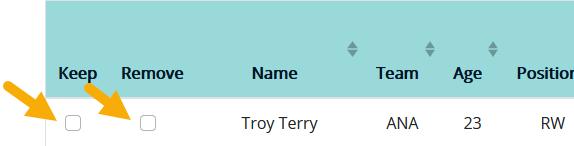
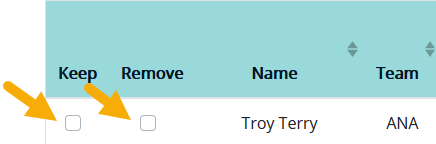
Update screenshot for mobile

diff --git a/src/views/Faq.vue b/src/views/Faq.vue
@@ -53,7 +53,7 @@
                                 <p>If this is your first time using the site, just click “Optimize Results” found in the bottom toolbar of the page and see what happens.</p>
                                 <b-row class="py-4 text-center">
                                     <b-col>
-                                    <b-img :src="require('../assets/screenshots/optimize.png')"/>
+                                    <b-img :src="require('../assets/screenshots/optimize.png')" class="screenshot"/>
                                     </b-col>
                                 </b-row>
                                 <p>Using performance metrics, cap hit, and age, our model uses linear programming to optimize each team’s protection decisions and Seattle’s selection decisions. This may sound simple but it’s pretty impressive considering there are more possible draft combinations than atoms in the universe!</p>
@@ -90,13 +90,13 @@
                                 <p>To access these settings, click the “Advanced Options” button found in the bottom toolbar and a pop-up will appear.</p>
                                 <b-row class="text-center py-4">
                                     <b-col cols=12>
-                                        <b-img :src="require('../assets/screenshots/advanced_options.png')"/>
+                                        <b-img :src="require('../assets/screenshots/advanced_options.png')" class="screenshot"/>
                                     </b-col>
                                 </b-row>
                                 <p>The first settings that appear will be drop-down menus in which you can select metrics for both on-ice performance and financial flexibility. There is also an option to consider UFAs, but please note the rules of the expansion draft.</p>
                                 <b-row class="text-center py-4">
                                     <b-col cols=12>
-                                        <b-img :src="require('../assets/screenshots/metrics.png')"/>
+                                        <b-img :src="require('../assets/screenshots/metrics.png')" class="screenshot"/>
                                     </b-col>
                                 </b-row>
                                 <p>Cap hit information was obtained from <b-link href="https://www.capfriendly.com/" :target="'_blank'">CapFriendly</b-link>. EA NHL 2021 ratings were obtained from <b-link href="https://old.reddit.com/r/EA_NHL/comments/jcchyh/oc_jfreshs_nhl_21_custom_player_ratings/" :target="'_blank'">this Reddit post</b-link>. Point shares data was obtained from <b-link href="https://www.hockey-reference.com/leagues/NHL_2021_skaters-misc.html" :target="'_blank'">Hockey Reference</b-link>.</p>
@@ -114,13 +114,13 @@
                                 <p>To access these settings, click the “Advanced Options” button found in the bottom toolbar and a pop-up will appear.</p>
                                 <b-row class="text-center py-4">
                                     <b-col cols=12>
-                                        <b-img :src="require('../assets/screenshots/advanced_options.png')"/>
+                                        <b-img :src="require('../assets/screenshots/advanced_options.png')" class="screenshot"/>
                                     </b-col>
                                 </b-row>
                                 <p>Below the metric selection drop-down menus, you will see two sliders: one from the perspective of Seattle and one from the perspective of all the existing teams. You can either adjust the slider directly or input the percentages in the boxes. If you only want to change some of the existing teams, click the “Show all other teams” button on the bottom-left to reveal individual sliders for each team.</p>
                                 <b-row class="text-center py-4">
                                     <b-col cols=12>
-                                        <b-img :src="require('../assets/screenshots/slider.png')"/>
+                                        <b-img :src="require('../assets/screenshots/slider.png')" class="screenshot"/>
                                     </b-col>
                                 </b-row>
                             </b-card-text>
@@ -137,12 +137,12 @@
                                 <p>If you are still unsatisfied with the results after changing the other settings, you can manually make protection / exposure / selection decisions akin to other expansion draft tools. Simply checkmark the “Protect” or “Expose” boxes for the existing teams and checkmark the “Keep” or “Remove” boxes for Seattle to either keep or remove the drafted player and then click “Optimize Results” to re-run the optimization.</p>
                                 <b-row class="py-2 text-center">
                                     <b-col cols=12>
-                                        <b-img :src="require('../assets/screenshots/protect_expose.png')"/>
+                                        <b-img :src="require('../assets/screenshots/protect_expose.png')" class="screenshot"/>
                                     </b-col>
                                 </b-row>
                                 <b-row class="py-2 text-center">
                                     <b-col cols=12>
-                                        <b-img :src="require('../assets/screenshots/keep_remove.png')"/>
+                                        <b-img :src="require('../assets/screenshots/keep_remove.png')" class="screenshot"/>
                                     </b-col>
                                 </b-row>
                             </b-card-text>
@@ -160,13 +160,13 @@
                                 <p>In the following screenshot, Calgary violates the expansion draft rules so the optimizer cannot find a valid solution.</p>
                                 <b-row class="py-4 text-center">
                                     <b-col cols=12>
-                                        <b-img :src="require('../assets/screenshots/cgy_infeasible.png')"/>
+                                        <b-img :src="require('../assets/screenshots/cgy_infeasible.png')" class="screenshot"/>
                                     </b-col>
                                 </b-row>
                                 <p>In the following screenshot, a player is both protected and manually kept by Seattle which so the optimizer cannot find a valid solution.</p>
                                 <b-row class="py-4 text-center">
                                     <b-col cols=12>
-                                        <b-img :src="require('../assets/screenshots/seattle_infeasible.png')"/>
+                                        <b-img :src="require('../assets/screenshots/seattle_infeasible.png')" class="screenshot"/>
                                     </b-col>
                                 </b-row>
                             </b-card-text>
@@ -189,9 +189,3 @@
         </template>
     </b-container>
 </template>
-
-<style lang="scss" scoped>
-img {
-    border: 1px #001628 solid;
-}
-</style>

diff --git a/src/components/IntroModal.vue b/src/components/IntroModal.vue
@@ -177,7 +177,7 @@
                 </b-row>
                 <b-row class="text-center">
                     <b-col cols=12>
-                        <b-img :src="require('../assets/screenshots/advanced_options.png')"/>
+                        <b-img :src="require('../assets/screenshots/advanced_options.png')" class="screenshot"/>
                     </b-col>
                 </b-row>
                 <b-row class="pt-4">
@@ -187,12 +187,12 @@
                 </b-row>
                 <b-row class="py-2 text-center">
                     <b-col cols=12>
-                        <b-img :src="require('../assets/screenshots/protect_expose.png')"/>
+                        <b-img :src="require('../assets/screenshots/protect_expose.png')" class="screenshot"/>
                     </b-col>
                 </b-row>
                 <b-row class="py-2 text-center">
                     <b-col cols=12>
-                        <b-img :src="require('../assets/screenshots/keep_remove.png')"/>
+                        <b-img :src="require('../assets/screenshots/keep_remove.png')" class="screenshot"/>
                     </b-col>
                 </b-row>
             </b-container>

diff --git a/src/styles/_main.scss b/src/styles/_main.scss
@@ -93,6 +93,10 @@ a.nav-link {
     max-width: 7.5%;
 }
 
+.screenshot {
+    border: 1px solid $deep-sea-blue;
+}
+
 // Slider
 .vue-slider-dot-handle {
     border: 2px solid $ice-blue !important;
